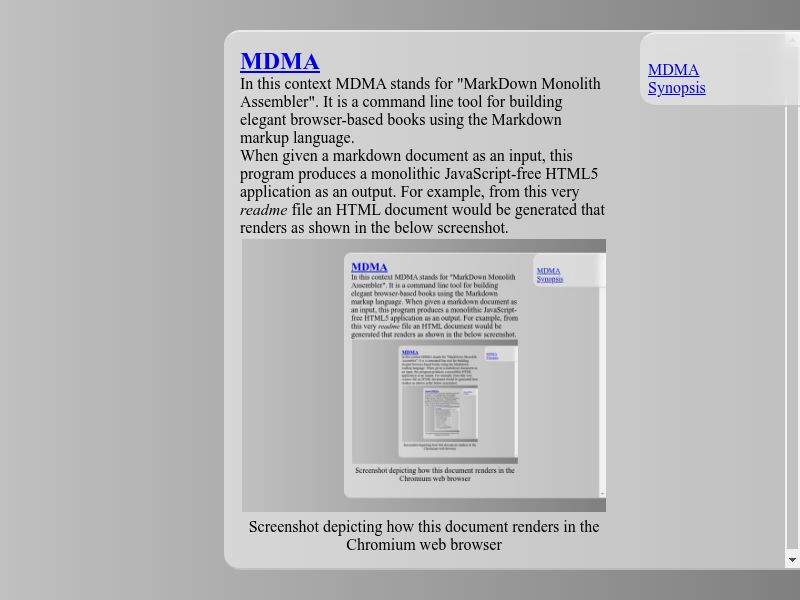
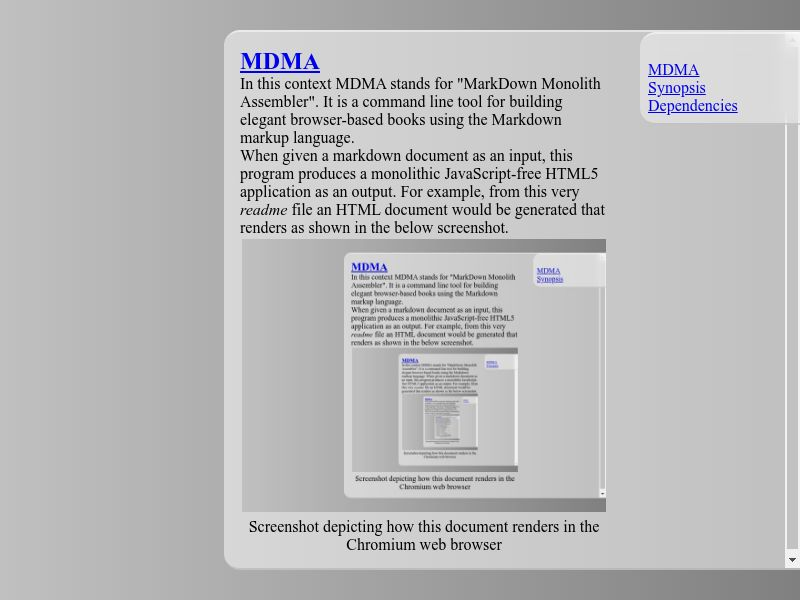
Added dependencies section to the README.

diff --git a/README.md b/README.md
@@ -29,3 +29,17 @@ Options:
   -v  --version       Show version information.
 
 ```
+
+# Dependencies #################################################################
+
+In order to compile this program from its _Makefile_ the following libraries and
+their respective header files must be present in the system.
+
+* [md4c](https://github.com/mity/md4c) —
+  C Markdown parser
+
+* [tinyxml2](https://github.com/leethomason/tinyxml2) —
+  Simple XML parser made for easy integration
+
+* [tidy](https://www.html-tidy.org/) —
+  A tool to tidy down HTML code to a clean style
